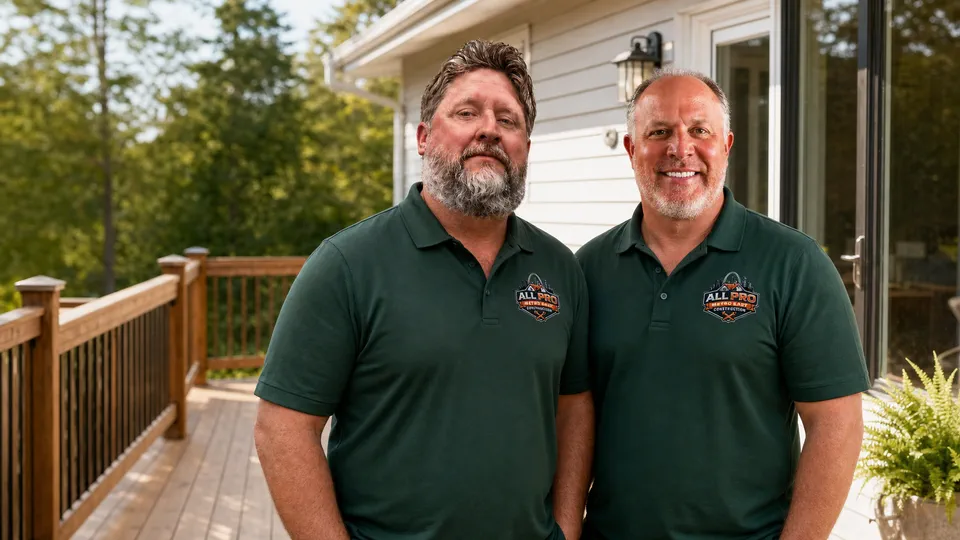
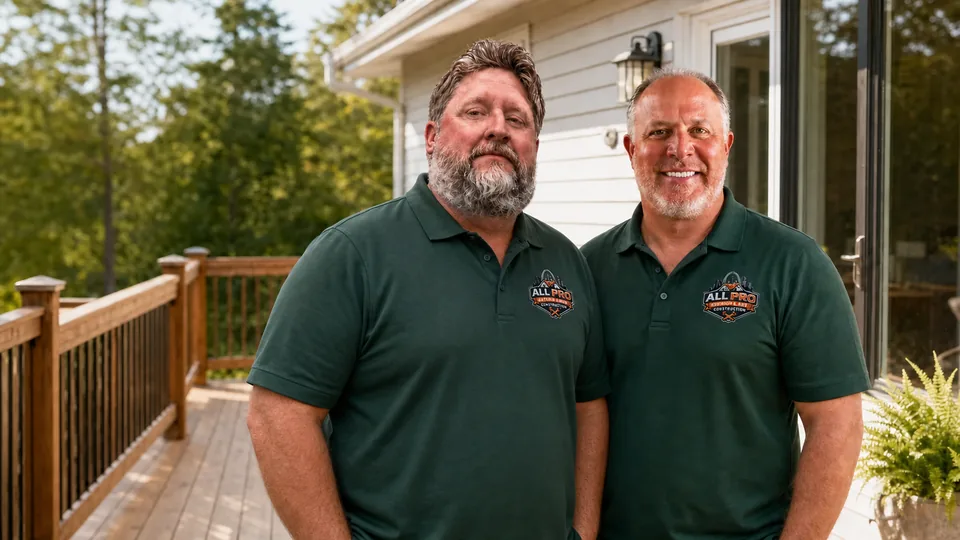
Refine All-Pro team portrait

diff --git a/index.html b/index.html
@@ -485,8 +485,8 @@
       </div>
       <div class="why-visual reveal reveal-delay-2">
         <figure class="allpro-team-card">
-          <img src="images/branding/allpro-team-bill-tony.webp"
-               srcset="images/branding/allpro-team-bill-tony-960.webp 960w, images/branding/allpro-team-bill-tony.webp 1600w"
+          <img src="images/branding/allpro-team-bill-tony.webp?v=20260804a"
+               srcset="images/branding/allpro-team-bill-tony-960.webp?v=20260804a 960w, images/branding/allpro-team-bill-tony.webp?v=20260804a 1600w"
                sizes="(max-width: 980px) calc(100vw - 40px), 560px"
                alt="Bill Session and Tony Beal in an All-Pro Metro East Construction team portrait with a finished-deck background"
                loading="lazy" decoding="async" width="1600" height="900">

diff --git a/design-refresh.css b/design-refresh.css
@@ -511,8 +511,10 @@
 
 .home-page .why-item h3,
 .home-page .why-item p,
+.home-page .metric-big,
 .home-page .metric-card strong,
 .home-page .metric-label,
+.home-page .metric-sub,
 .home-page .bill-name,
 .home-page .bill-title,
 .home-page .bill-quote {
@@ -521,6 +523,7 @@
 
 .home-page .why-item p,
 .home-page .metric-label,
+.home-page .metric-sub,
 .home-page .bill-title,
 .home-page .bill-quote {
   opacity: .78;
